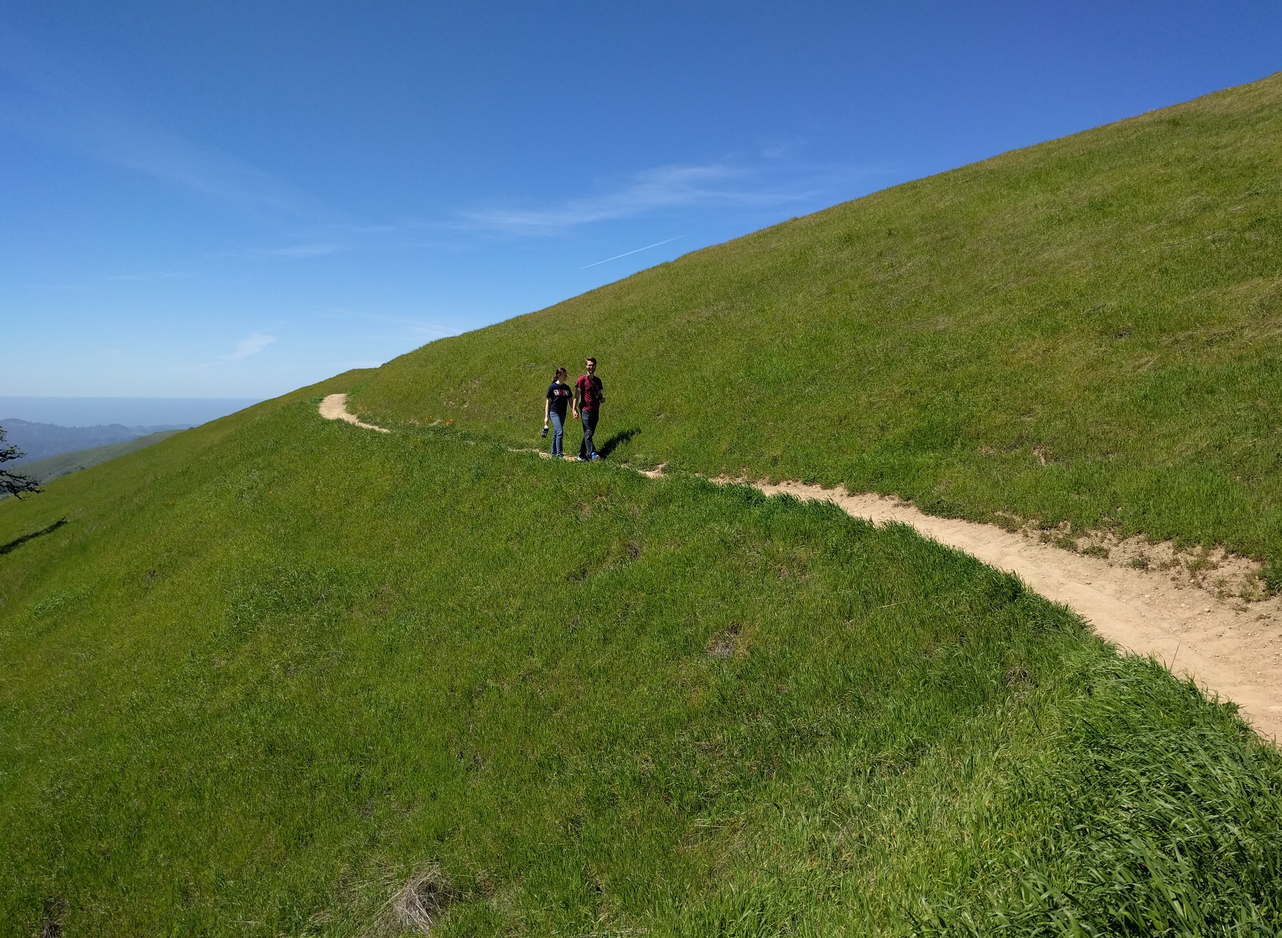
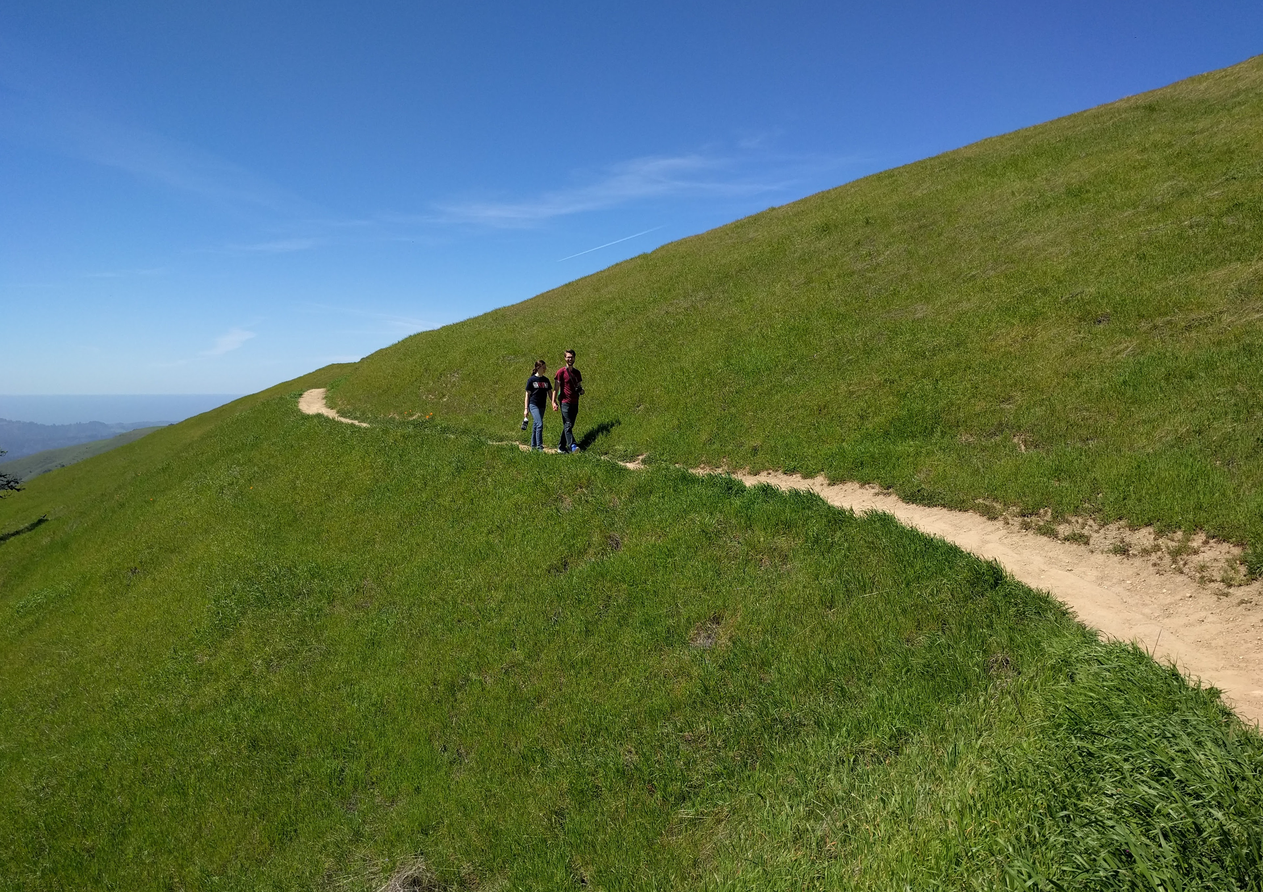
header tweaks

diff --git a/assets/sass/main.scss b/assets/sass/main.scss
@@ -902,11 +902,16 @@
 		@include vendor('align-items', 'flex-end');
 		@include vendor('justify-content', 'space-between');
 		background-color:		_palette(accent2, bg);
-		background-attachment:	scroll,								fixed;
-		background-image:		url('images/overlay.png'),			url('../../images/mine/proposal_walk_rotate.jpg');
-		background-position:	top left,							top left;
-		background-repeat:		repeat,								no-repeat;
-		background-size:		auto,								auto 100%;
+		//background-attachment:	scroll,								fixed;
+		//background-image:		url('images/overlay.png'),			url('../../images/mine/proposal_walk_rotate.jpg');
+		//background-position:	top left,							top left;
+		//background-repeat:		repeat,								no-repeat;
+		//background-size:		auto,								auto 100%;
+		background-attachment:	fixed;
+		background-image:		url('../../images/mine/proposal_walk_rotate.jpg');
+		background-position:	top left;
+		background-repeat:		no-repeat;
+		background-size:		auto 100%;
 		color: _palette(accent2, fg);
 		height: 100%;
 		left: 0;
@@ -1202,6 +1207,7 @@
 		/* Header */
 
 			#header {
+                background-position: -100px;
 				padding: ($size-header-pad * 2) $size-header-pad $size-header-pad $size-header-pad;
 				width: $size-header-width;
 
@@ -1268,9 +1274,12 @@
 		/* Header */
 
 			#header {
-				background-attachment:	scroll;
-				background-position:	top left,	center center;
-				background-size:		auto,		cover;
+				//background-attachment:	scroll;
+				//background-position:	top left,	center center;
+				//background-size:		auto,		cover;
+				background-attachment:  scroll;
+				background-position:	center center;
+				background-size:		cover;
 				left: auto;
 				padding: ($size-header-pad * 1.5) $size-header-pad;
 				position: relative;

diff --git a/assets/css/main.css b/assets/css/main.css
@@ -2341,11 +2341,11 @@ input[type="button"]:disabled,
   -ms-justify-content: space-between;
   justify-content: space-between;
   background-color: #1f1815;
-  background-attachment: scroll,								fixed;
-  background-image: url("images/overlay.png"), url("../../images/mine/proposal_walk_rotate.jpg");
-  background-position: top left,							top left;
-  background-repeat: repeat,								no-repeat;
-  background-size: auto,								auto 100%;
+  background-attachment: fixed;
+  background-image: url("../../images/mine/proposal_walk_rotate.jpg");
+  background-position: top left;
+  background-repeat: no-repeat;
+  background-size: auto 100%;
   color: rgba(255, 255, 255, 0.5);
   height: 100%;
   left: 0;
@@ -2680,6 +2680,7 @@ body.is-touch .poptrox-popup .closer {
 @media screen and (max-width: 1280px) {
   /* Header */
   #header {
+    background-position: -100px;
     padding: 6em 3em 3em 3em;
     width: 30%;
   }
@@ -2722,8 +2723,8 @@ body.is-touch .poptrox-popup .closer {
   /* Header */
   #header {
     background-attachment: scroll;
-    background-position: top left,	center center;
-    background-size: auto,		cover;
+    background-position: center center;
+    background-size: cover;
     left: auto;
     padding: 6em 4em;
     position: relative;

diff --git a/index.html b/index.html
@@ -101,8 +101,8 @@
 								<ul class="labeled-icons">
 									<li>
 										<h3 class="icon fa-home"><span class="label">Address</span></h3>
-										1234 Somewhere Rd.<br />
-										Nashville, TN 00000<br />
+										4000 City Walk Way<br />
+										Charlottesville, VA 22902<br />
 										United States
 									</li>
 									<li>
@@ -445,12 +445,12 @@ print 'It took ' + i + ' iterations to sort the deck.';</code></pre>
 				<div class="inner">
 					<ul class="icons">
 						<li><a href="#" class="icon fa-twitter"><span class="label">Twitter</span></a></li>
-						<li><a href="#" class="icon fa-github"><span class="label">Github</span></a></li>
+						<li><a href="https://github.com/TheNeuralBit/wedding" class="icon fa-github"><span class="label">Github</span></a></li>
 						<li><a href="#" class="icon fa-dribbble"><span class="label">Dribbble</span></a></li>
 						<li><a href="#" class="icon fa-envelope-o"><span class="label">Email</span></a></li>
 					</ul>
 					<ul class="copyright">
-						<li>&copy; Untitled</li><li>Design: <a href="http://html5up.net">HTML5 UP</a></li>
+						<li>&copy; 2017 Meredith Pearson and Brian Hulette</li><li>Design: <a href="http://html5up.net">HTML5 UP</a></li>
 					</ul>
 				</div>
 			</footer>
